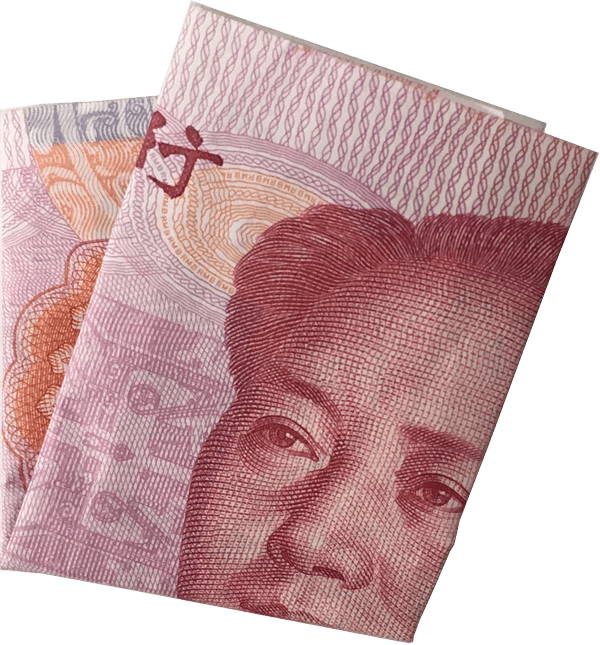
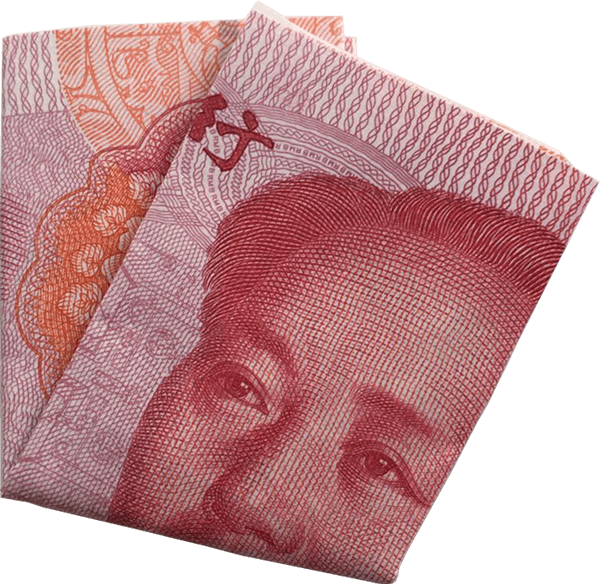
[*] 更换道具图片 [*] 页面优化

diff --git a/js/magic.js b/js/magic.js
@@ -78,14 +78,26 @@ $(function() {
             $gameContainer.html('<img src="' + result + '" alt="" />');
             if(localStorage.getItem('strechDirection')) {
                 $gameContainer.find('img').css({
-                    'height': 'auto',
+                    // 'height': 'auto',
+                    'height': scaleRate,
                     'width': '100%'
                 });
             }
         }
     }
 
+    var isIphone6;
+    var scaleRate = '103%';
+    if(screen.availWidth == 375) {
+        isIphone6 =  true;
+        scaleRate = '102.99%';
+    } else {
+        isIphone6 = false;
+        scaleRate = '102.89%';
+    }
+
     function readAsDataURL() {
+        console.log(isIphone6);
         //检验是否为图像文件  
         var file = $file[0].files[0];
         if (!/image\/\w+/.test(file.type)) {
@@ -111,7 +123,8 @@ $(function() {
                 if(gameContainerWidthHeightRatio < windowWidthHeightRatio) {
                     localStorage.setItem('strechDirection', 1);
                     $gameContainer.find('img').css({
-                        'height': 'auto',
+                        // 'height': 'auto',
+                        'height': scaleRate,
                         'width': '100%'
                     });
                 } else {
@@ -302,9 +315,9 @@ $(function() {
     var accelerationInterval;
     var accelerationAnimationFrame;
     var acceleration;
-    var minAcceleration = 0.2;
+    var minAcceleration = 0.5;
     var maxAcceleration = 2;
-    var deltaTime = 50;
+    var deltaTime = 16;
     var startPoint, endPoint;
     startPoint = {
         x: 0,
@@ -330,17 +343,22 @@ $(function() {
     //     }, deltaTime);
     // }
 
+    // var startTime, endTime;
     function calculateAcceleration(event) {
+        // endTime = new Date().getTime();
+        // console.log('duration', endTime - startTime);  16或17
         endPoint = moveCurrentPosition;
 
-        acceleration = Math.sqrt((endPoint.x - startPoint.x)*(endPoint.x - startPoint.x) + (endPoint.y - startPoint.y)*(endPoint.y - startPoint.y)) / deltaTime
+        acceleration = Math.sqrt((endPoint.x - startPoint.x)*(endPoint.x - startPoint.x) + (endPoint.y - startPoint.y)*(endPoint.y - startPoint.y)) / deltaTime;
         acceleration = acceleration >= minAcceleration ? acceleration : minAcceleration;
+        // acceleration = acceleration <= maxAcceleration ? acceleration : maxAcceleration;
         console.log(acceleration);
 
         startPoint = endPoint;  
-        // $('.testboundary').css({
-        //     'border-width': boundaryGap*acceleration + 'px'
-        // })
+        $('.testboundary').css({
+            'border-width': boundaryGap*acceleration + 'px'
+        })
+        // startTime = endTime;
         accelerationAnimationFrame = requestAnimationFrame(calculateAcceleration);
     }
     
@@ -352,6 +370,7 @@ $(function() {
         
         $(window).off('deviceorientation');
         cancelAnimationFrame(raf);
+        cancelAnimationFrame(accelerationAnimationFrame);
 
         if (event.targetTouches.length == 1) {
             var touch = event.targetTouches[0];
@@ -382,6 +401,7 @@ $(function() {
 
             if(!hasSetTimeout){
                 setTimeout(function() {
+                    // startTime = new Date().getTime();
                     calculateAcceleration(event);
                 }, 100)
                 hasSetTimeout = true;
@@ -418,7 +438,7 @@ $(function() {
         hasSetTimeout = false;
         // clearTimeout(accelerationInterval);
         cancelAnimationFrame(accelerationAnimationFrame);
-        
+
         lastTouchX = event.pageX;
         lastTouchY = event.pageY;
 

diff --git a/index.html b/index.html
@@ -10,7 +10,7 @@
     <meta name="apple-mobile-web-app-capable" content="yes">
 
     <!-- 状态栏的值可能为black, default, black-translucent -->
-    <meta name="apple-mobile-web-app-status-bar-style" content="default">
+    <meta name="apple-mobile-web-app-status-bar-style" content="black-translucent">
     <!-- web app的放置主屏幕上icon文件路径 -->
     <link rel="apple-touch-icon-precomposed" href="iphone_magic.png" />
     <!-- uc强制竖屏 -->
@@ -36,15 +36,15 @@
         height: 8px;
         border-radius: 100%;
         transform: translate3d(0,0,0);
-        /*background-color: yellow;*/
-        background-color: transparent;
+        background-color: yellow;
+        /*background-color: transparent;*/
     }
     .testboundary {
         position: fixed;
         width: 100%;
         height: 100%;
         box-sizing: border-box;
-        border: 100px solid #f00;
+        /*border: 50px solid #8f8;*/
     }
     </style>
 </head>

diff --git a/css/magic.css b/css/magic.css
@@ -201,7 +201,7 @@ img {
 
 #game-container img {
 	position: absolute;
-	height: 100%;
+	height: 103%;
 	// width: 100%;
 	left: 50%;
 	bottom: 0;
